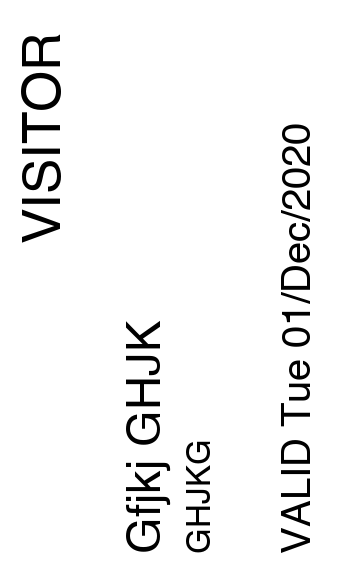
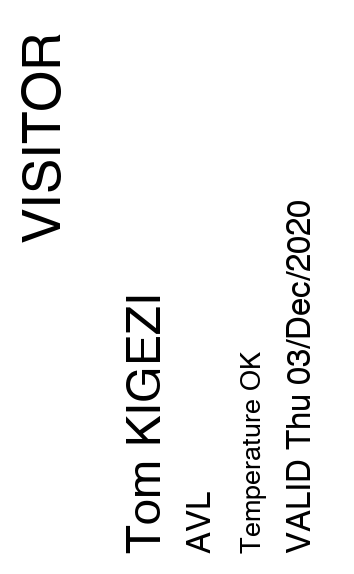
fixed padding issues on form, fixed checkbox apperance and size for iPad, added meta tag for fullscreen mode in Safari, added phone number field for visitor, updated QR code content

diff --git a/form.php b/form.php
@@ -3,9 +3,9 @@
    -->
 <?php $isVisitor = isset($_POST['visitor']);?>
 
-<div class="modal fade" style="margin: 10px" tabindex="-1" id="myModal">
+<div class="modal fade" tabindex="-1" id="myModal">
     <div class="modal-dialog">
-      <div class="modal-content">
+      <div class="modal-content p-3 m-3">
 <form role="form" class="form-horizontal" id="myForm" action="process.php" method="POST" >
         <!-- Modal Header -->
         <div class="modal-header">
@@ -14,43 +14,41 @@
         </div>
     <input type="hidden" name="employee_id" value="<?php echo $employee_id ?>" />
     <input type="hidden" name="isVisitor" value="<?php echo $isVisitor ?>" />
-
-    <div class="form-group">
+    <div class="form-group pt-2">
     <label for="first_name">First Name:</label>
     <input class="form-control"  type="text" name="first_name" placeholder="First name" value="<?php echo $first_name; ?>" title="First name" required/>
     <div class="valid-feedback">Valid.</div>
     <div class="invalid-feedback">Please fill out this field.</div>
     </div>
-    <div class="form-group">
+    <div class="form-group pt-2">
     <label>Last Name:</label>
-    <input class="form-control"  type="text" name="last_name" placeholder="Last name" value="<?php echo $last_name; ?>" title="Last name"required/>
+    <input class="form-control "  type="text" name="last_name" placeholder="Last name" value="<?php echo $last_name; ?>" title="Last name"required/>
     <div class="valid-feedback">Valid.</div>
     <div class="invalid-feedback">Please fill out this field.</div>
     </div>
-    <div class="form-group">
+    <div class="form-group pt-2">
     <?php if (isset($_POST['visitor']) || $_GET['visit']):?>
     <label>Company Name:</label>
-    <input class="form-control"  type="text" name="department" placeholder="Company Name" value="<?php echo $department; ?>"  title="Company Name" />
+    <input class="form-control "  type="text" name="department" placeholder="Company Name (Optional)" value="<?php echo $department; ?>"  title="Company Name" />
     <div class="valid-feedback">Valid.</div>
     <div class="invalid-feedback">Please fill out this field.</div>
     <label for="phone">Enter your phone number:</label>
-    <input class="form-control" type="tel" id="phone" name="phone" value="<?php echo $phone; ?>" pattern="^\s*\(?(020[7,8]{1}\)?[ ]?[1-9]{1}[0-9{2}[ ]?[0-9]{4})|(0[1-8]{1}[0-9]{3}\)?[ ]?[1-9]{1}[0-9]{2}[ ]?[0-9]{3})\s*$">
+    <input class="form-control" type="tel" id="phone" placeholder="01234567890" name="phone" value="<?php echo $phone; ?>" pattern="^\s*\(?(020[7,8]{1}\)?[ ]?[1-9]{1}[0-9{2}[ ]?[0-9]{4})|(0[1-8]{1}[0-9]{3}\)?[ ]?[1-9]{1}[0-9]{2}[ ]?[0-9]{3})\s*$" required>
     <div class="valid-feedback">Valid.</div>
     <div class="invalid-feedback">Please fill out this field.</div>
     <?php else: ?>
     <label>Department:</label>
-    <input class="form-control"  type="text" name="department" placeholder="Department" value="<?php echo $department; ?>"  title="Department" />
+    <input class="form-control pt-2"  type="text" name="department" placeholder="Department" value="<?php echo $department; ?>"  title="Department" />
     <div class="valid-feedback">Valid.</div>
     <div class="invalid-feedback">Please fill out this field.</div>
     <?php endif;?>
     </div>
     <div class="form-check">
+        <label class="pr-4">Tick the box if your temperature is less than 38°C?</label>
         <input class="form-check-input" type="checkbox" name="temp_check" value="1" title="make sure you check your temperature with the thermometer provided"/>
-        <label class="form-check-label">
-    Is your temperature less than 38°C?</label>
     <div class="valid-feedback">Temperature OK</div>
     <div class="invalid-feedback">Check this checkbox to continue.</div>
-</div>
+    </div>
     
     <!-- <div class="form-group">  -->
      <div class="modal-footer">

diff --git a/index.php b/index.php
@@ -52,7 +52,7 @@ if (!(isset($_GET["myFilters"]))){
 
 <?php require_once 'process.php';?>
 <?php include 'header.php';?>
-  <body style="background-color:#e9ecef;">
+<body style="m-3 p-5 background-color:#e9ecef;">
 
 
   <?php  if ((isset($_SESSION['message']))): ?>
@@ -76,9 +76,9 @@ $(document).ready(function () {
     </div>
     <?php endif ?>
 
-    <div class="container-fluid pt-3">
+    <div class="container-fluid">
       
-  <img class = "rounded float-left "  src="./assets/images/logo.png">
+  <img class="rounded float-left "  src="./assets/images/logo.png">
   
     <?php if(isset($_SESSION['UserData']['Username'])):?>
 
@@ -97,9 +97,9 @@ $(document).ready(function () {
     </form>
 <h1>
         <?php else: ?>
-          <h1 class=" col-md-auto display-5 ">
-          &nbsp;<?php echo date("d m Y");?> - <?php echo $location; ?> 
-        <?php endif ?>"Covid" Check In/Out </h1>
+          <h1 class=" col-md-auto display-5 " style="text-align:center">
+          &nbsp;<?php echo date("d/m/Y");?> - <?php echo $location; ?> 
+        <?php endif ?>"Covid" Check In</h1>
     <!-- set default value of input date element to todays date with Javascript -->
     <?php if(isset($_SESSION['UserData']['Username'])):?>
     <a class="" data-toggle="collapse" href="#collapse" role="button" aria-expanded="false" aria-controls="collapse">
@@ -131,11 +131,11 @@ $(document).ready(function () {
                  <!-- if logged in as admin then create edit and delete buttons -->
                  <?php if(isset($_SESSION['UserData']['Username'])):?>
                   <div class="container-fluid border border-white rounded">
-    <h2>Employee List</h2>
+    <h2>Employee/Visitor List</h2>
     <table id="myTable" class="display nowrap dataTable dtr-inline collapsed" style="width: 100%;" role="grid" aria-describedby="example_info">
     <thead>
       <tr>
-        <th colspan="6">Employee Details</th>
+        <th colspan="6">Employee/Visitor Details</th>
       <th colspan="2">Action</th>
       <tr>
         <th>ID</th>
@@ -155,8 +155,8 @@ $(document).ready(function () {
              <tr>
           <!-- Print out individual column data -->
           <td><?php echo $employee['employee_id']; ?></td>
-          <td><?php echo $employee['first_name'] . ' ' . $employee['last_name']; ?></td>
-          <td><?php echo $employee['department']; ?></td>
+          <td><?php echo $employee['first_name'] . ' ' . strtoupper($employee['last_name']); ?></td>
+          <td><?php echo strtoupper($employee['department']); ?></td>
           <td><?php echo $employee['temp_check']; ?></td>
           <td><?php echo substr($employee['checkin'], 11, 8); ?></td>
           <td><?php echo substr($employee['checkout'], 11, 8); ?></td>
@@ -198,9 +198,7 @@ $(document).ready( function () {
        "order": [[ 0, "desc" ]]
                } );
        } );
-   
   
 </script>
 </body>
-
 </html>

diff --git a/header.php b/header.php
@@ -4,7 +4,8 @@
 <head>
    <meta charset="UTF-8">
    <meta name="viewport" content="width=device-width, initial-scale=1.0">
-   <title>Employee Check In/Out</title>
+   <meta name="apple-mobile-web-app-capable" content="yes">
+   <title>Covid Check In</title>
    <!-- <link rel="stylesheet" type="text/css" href="./assets/css/main.min.css" /> -->
    <link rel="stylesheet" type="text/css" href="./assets/css/datatables.min.css"/>
    <link rel="stylesheet" href="./assets/css/bootstrap.min.css">
@@ -33,5 +34,51 @@
            visibility:visible;
        }
        <?php endif ?>
+
+       input[type='checkbox'] {
+  /* remove browser chrome */
+  -webkit-appearance: none;
+     -moz-appearance: none;
+          appearance: none;
+  outline: none;
+  /*add styling */
+  position: relative;
+  width: 2rem;
+  height: 2rem;
+  border: 2px solid #455A64;
+  overflow: hidden;
+  border-radius: 3px;
+  box-shadow: inset 0 0 5px 0 rgba(0, 0, 0, 0.6);
+  cursor: pointer;
+}
+input[type='checkbox']::before {
+  content: '';
+  color: #fff;
+  position: absolute;
+  top: 4px;
+  right: 4px;
+  bottom: 4px; 
+   left: 4px;
+  background-color: transparent;
+  background-size: contain;
+  background-position: center center;
+  background-repeat: no-repeat;
+  border-radius: 2px;
+  -webkit-transform: scale(0);
+          transform: scale(0);
+  -webkit-transition: -webkit-transform 0.25s ease-in-out;
+  transition: -webkit-transform 0.25s ease-in-out;
+  transition: transform 0.25s ease-in-out;
+  transition: transform 0.25s ease-in-out, -webkit-transform 0.25s ease-in-out;
+  /* base64 encoded to make things easier to show 
+  	normally you would use an image or a font
+  */
[1 lines of base64/hex data omitted]
+}
+
+input[type='checkbox']:checked::before {
+  -webkit-transform: scale(2);
+          transform: scale(2);
+}
        </style>
   </head>

diff --git a/functions.php b/functions.php
@@ -2,7 +2,7 @@
 
 include('../phpqrcode/qrlib.php');
 
-function createVisitorBadge($width,$height, $firstName, $lastName, $dept,$phone_number){
+function createVisitorBadge($width,$height, $firstName, $lastName, $dept,$phone_number,$tempOK,$location,$date_in){
 
     // Create the size of image or blank image 
     // 354 x 574
@@ -17,12 +17,20 @@ $text_color = imagecolorallocate($image, 0, 0, 0);
 // Make the background red
 imagefilledrectangle($image, 0, 0, $width, $height, $background_color);
 
-// Function to create image which contains string. 
-$text_content = "Visitor" . "\n" . ucfirst(strtolower($firstName)) . " " . strtoupper($lastName) ."\n"  . strtolower($dept) ."\n". $phone_number . "\n" . 'VALID ' . date("D d/M/Y") ;
+
+if ($tempOK=='OK'){
+    $valid ='VALID ';
+} else {
+    $valid='NOT VALID ';
+}
+
+// Function to create image which contains string.
+$text_content = "Visitor at " . $location . "\n" . ucfirst(strtolower($firstName)) . " " . strtoupper($lastName) ."\n"  . strtoupper($dept) ."\n". $phone_number . "\n". 'Temp: '.$tempOK . "\n" . "Time in" . $date_in . "\n" . $valid . date("D d/M/Y") ;
 imagettftext($image, 35,0, 20, 160,  $text_color, $fontfile, ucfirst(strtolower($firstName)) ." " . strtoupper($lastName)); 
 imagettftext($image, 25,0, 20, 210, $text_color, $fontfile, strtoupper($dept) ); 
+imagettftext($image, 20,0, 20, 260, $text_color, $fontfile, ('Temperature '. $tempOK) ); 
 imagettftext($image, 40,0, 330, 60, $text_color, $fontfile, 'VISITOR' ); 
-imagettftext($image, 30,0, 20, 310, $text_color, $fontfile, 'VALID ' . date("D d/M/Y")); 
+imagettftext($image, 25,0, 20, 310, $text_color, $fontfile, $valid . date("D d/M/Y")); 
 QRcode::png($text_content, __DIR__ . '/assets/images/QR_Code.png', QR_ECLEVEL_L, 3);
 
 $image = imagerotate($image, 90,0);
@@ -32,12 +40,12 @@ header("Content-Type: image/png");
 imagepng($image,__DIR__ . '/assets/images/label.png'); 
 
 $dest = imagecreatefrompng(__DIR__ . '/assets/images/label.png');
-$src = imagecreatefrompng(__DIR__ . '/assets/images/QR_Code.png');
+$qrcode = imagecreatefrompng(__DIR__ . '/assets/images/QR_Code.png');
 $logoPath =__DIR__ . '/assets/images/logo_90d.png';
 $srcLogo = imagecreatefrompng($logoPath);
 
 // Copy and merge
-imagecopymerge($dest, $src, 230,0, 0, 0, 111, 111, 100);
+imagecopymerge($dest, $qrcode, 120,10, 0, 0, 135, 135, 100);
 imagecopymerge($dest, $srcLogo, 20,435, 0, 0, 46, 109, 100);
 imagepng($dest,'label.png');
 

diff --git a/process.php b/process.php
@@ -13,6 +13,7 @@ $location = "AVL Basildon"; #specify a physical location (optional)
 $phone="";
 $isVisitor = 0;
 
+
 session_start(); /* Starts the session */
 
 if (isset($_POST['save'])){
@@ -52,16 +53,16 @@ include('db_error.php');
   if (!($temp_check==1)) {
 # if temperature is not 'Y' go home.
 $temp_ok='NOK';
-$employee_msg = "You should check out now if your temperature is not less than 38°C<br> and return home.<br>";
+$employee_msg = "Your temperature exceeds 38°C<br> you should return home.<br>";
 } else{
 $temp_ok='OK';
 $employee_msg = "You can proceed into the building.<br> Remember to checkout when you leave.<br>";
-if ($isVisitor){
-  createVisitorBadge(574,354, $first_name, $last_name, $department,$phone);
+  }
+  if ($isVisitor){
+createVisitorBadge(574,354, $first_name, $last_name, $department,$phone,$temp_ok,$location,$checkin,$date_in);
   shell_exec("brother_ql -b pyusb -m QL-700 -p usb://0x04F9:0x2042/000J2Z462429 print -l 62 label.png");
   // delete label after print
-  unlink('label.png');
-  }
+unlink('label.png');
 }
 
 # Create your query using : to add parameters to the statement
@@ -90,10 +91,14 @@ if (!$execute_create_success){
 # If an error occurred print the error 
 print_r($employee_create_statement->errInfo()[2]);
 $_SESSION['message']='Record has not been saved due to an error!<br>';
-$_SESSION['msg_type']='success';
+$_SESSION['msg_type']='danger';
 } else{
   $_SESSION['message']='Record has been saved!<br>' . $employee_msg;
+  if ($temp_ok=='OK'){
   $_SESSION['msg_type']='success';
+  } else {
+    $_SESSION['msg_type']='danger';
+  }
 }
 }
 header("location: index.php");

diff --git a/footer.php b/footer.php
@@ -2,15 +2,25 @@
 <!-- Footer -->
 <style>
 .footer {
-  position: relative;
+  /* position: fixed; */
+  display: inline-block;
   left: 0;
-  bottom: 0;
+  bottom: 0vh;
   width: 100%;
   text-align: center;
 }
 </style>
-<footer class="footer">
-<div class="container pt-3">
+
+<footer class="footer mt-5 pt-5">
+<?php if(isset($_SESSION['UserData']['Username'])):?>
+  <a class="" data-toggle="collapse" href="#admin_collapse" role="button" aria-expanded="false" aria-controls="collapse">
+    <p class="bg-warning lead" style="text-align:right;">hide admin area</p>
+        <?php else: ?>
+          <a class="" data-toggle="collapse" href="#admin_collapse" role="button" aria-expanded="false" aria-controls="collapse">
+          <p class="bg-warning lead" style="text-align:right;">show admin area</p>
+          </a>
+          <?php endif ?>
+<div id="admin_collapse" class="container <?php echo (isset($_SESSION['UserData']['Username']))? '':'collapse';?>" >
 <p class="float-left" id="time"></p>
 <?php
 if (isset($_SESSION['UserData']['Username'])){

diff --git a/front_page.php b/front_page.php
@@ -36,24 +36,25 @@ button {
 </style>
 
 <form action="index.php" method="post">
-
 <div id="collapse" class="<?php echo (isset($_SESSION['UserData']['Username']))? 'collapse':'';?> row">
-
-<button class=" col-sm-6" type="submit" name="employee">
+<div class="container-fluid">
+<div class="row p-3">
+<button class="col-sm-6  p-3" type="submit" name="employee">
 <div class="card">
 <i class="fa fa-users"></i>
-<h3 class="card-footer" style="text-align:center;">Employee</h3>
+<h3 class="card-footer m-0" style="text-align:center;">Employee</h3>
 </div>
 </button>
 
 
-<button class="col-sm-6" type="submit" name="visitor">
+<button class="col-sm-6  p-3" type="submit" name="visitor">
 <div class="card ">
 <i class="fa fa-ticket fa-ticket-alt"></i>
-<h3 class="card-footer" style="text-align:center">Visitor</h3>
+<h3 class="card-footer m-0" style="text-align:center">Visitor</h3>
 </div>
 </button>
 </div>
-
+</div>
+</div>
 </form>
 
